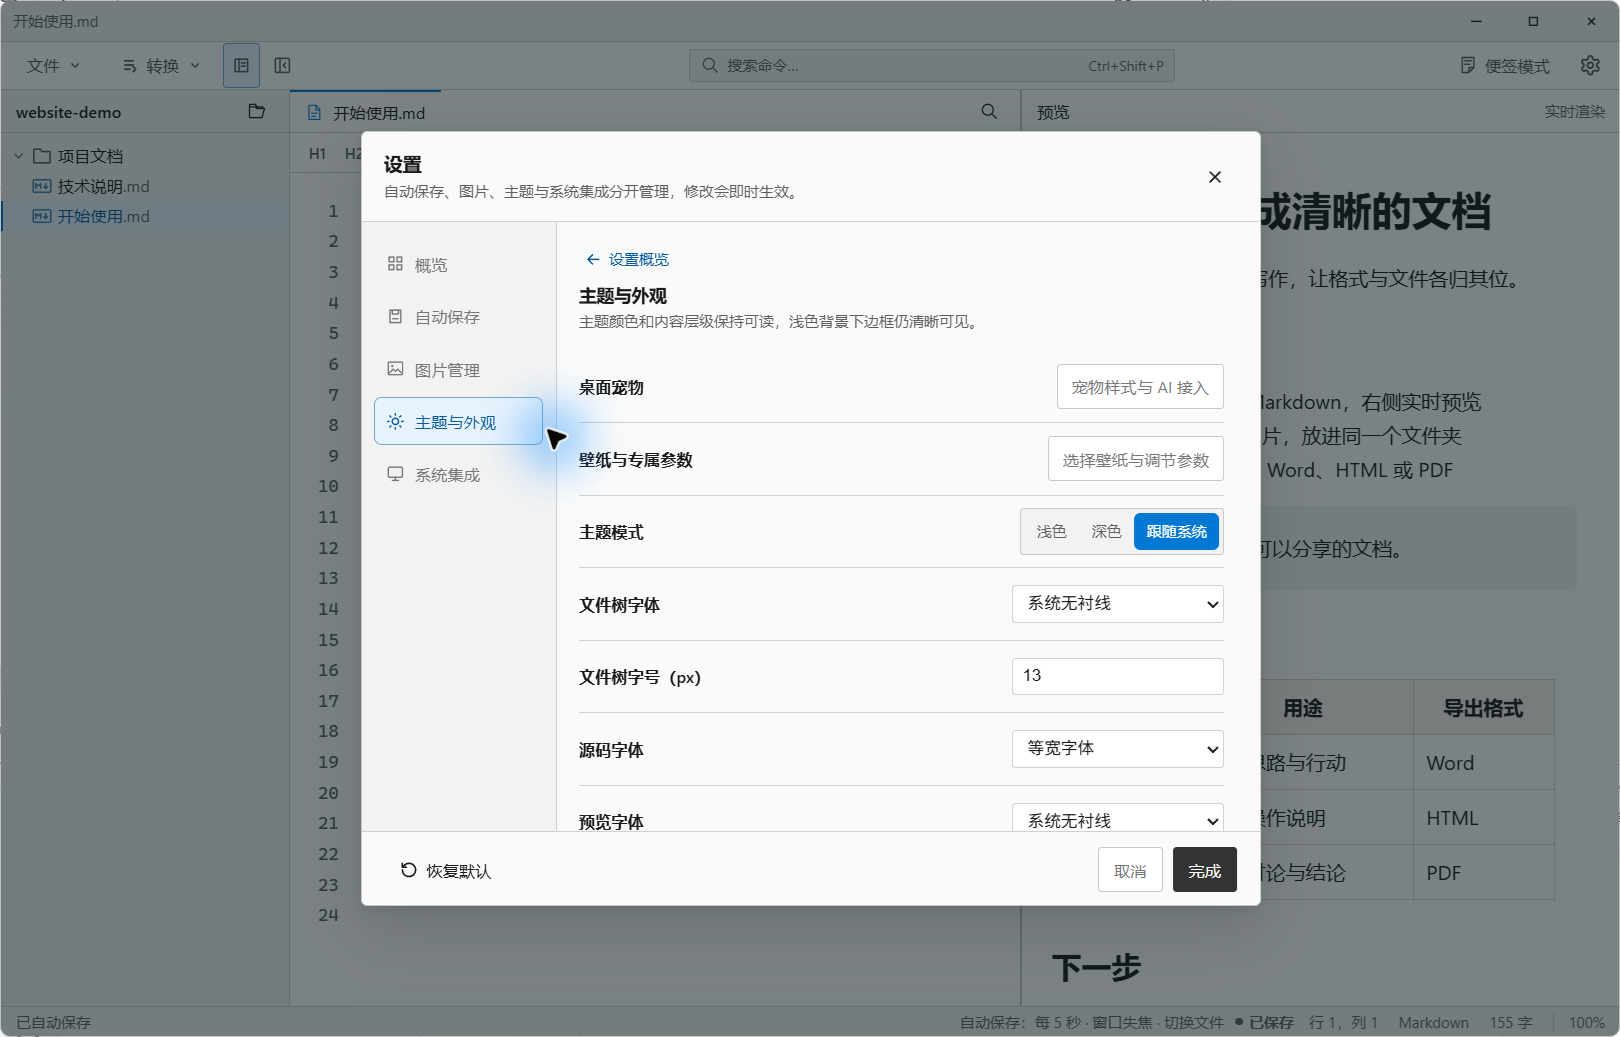
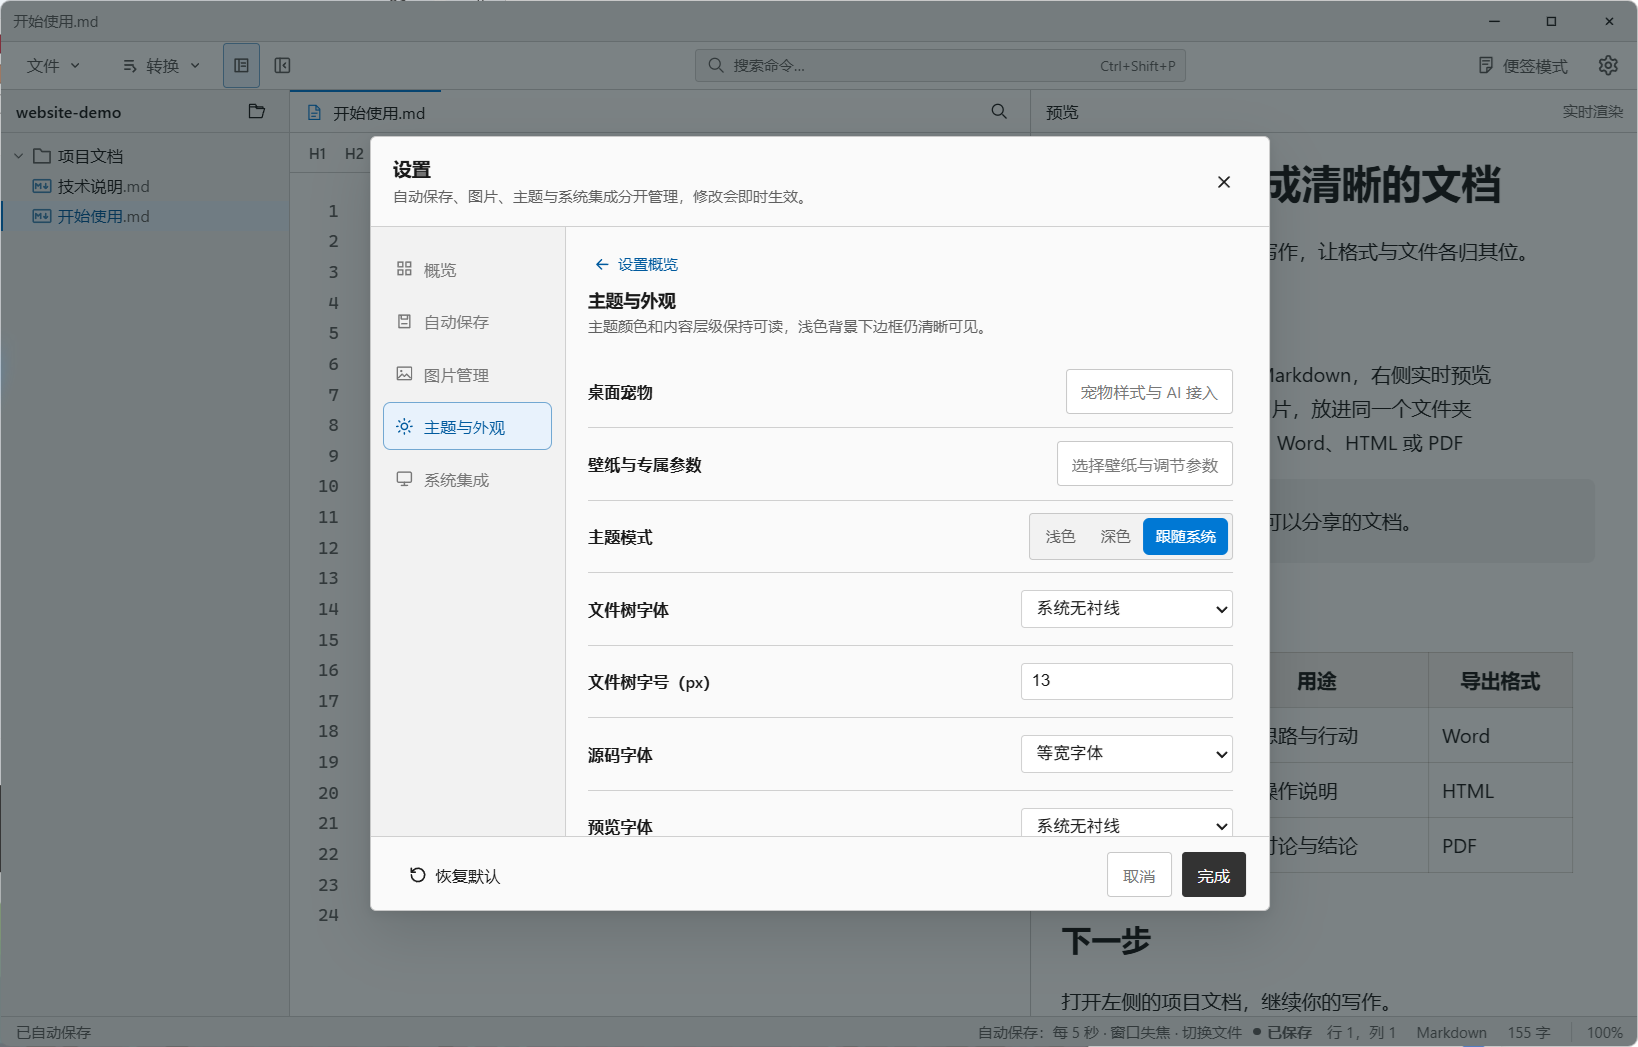
docs: recapture all website screenshots without mouse cursor

diff --git a/web/index.html b/web/index.html
@@ -48,8 +48,8 @@
 
       <figure class="hero-figure">
         <div class="shot-frame">
-          <button class="shot-trigger" type="button" data-shot="assets/img/current-editor-hd.png" data-caption="MarkFlow 0.4.5 · 源码、实时预览与本地文件树" data-alt="MarkFlow 0.4.5 的 Windows 编辑器界面，左侧为文件树，中间为 Markdown 源码，右侧为实时预览。">
-            <img src="assets/img/current-editor-hd.png" width="1620" height="1037" alt="MarkFlow 0.4.5 的 Windows 编辑器界面，左侧为文件树，中间为 Markdown 源码，右侧为实时预览。" decoding="async" fetchpriority="high">
+          <button class="shot-trigger" type="button" data-shot="assets/img/current-editor-hd.png?v=20261104-clean" data-caption="MarkFlow 0.4.5 · 源码、实时预览与本地文件树" data-alt="MarkFlow 0.4.5 的 Windows 编辑器界面，左侧为文件树，中间为 Markdown 源码，右侧为实时预览。">
+            <img src="assets/img/current-editor-hd.png?v=20261104-clean" width="1638" height="1047" alt="MarkFlow 0.4.5 的 Windows 编辑器界面，左侧为文件树，中间为 Markdown 源码，右侧为实时预览。" decoding="async" fetchpriority="high">
           </button>
         </div>
         <figcaption class="figure-caption">
@@ -114,8 +114,8 @@
           </div>
           <figure class="shot">
             <div class="shot-frame">
-              <button class="shot-trigger" type="button" data-shot="assets/img/current-appearance-hd.png" data-caption="主题与外观 · 壁纸、字体与界面参数" data-alt="MarkFlow 0.4.5 的主题与外观设置界面，包含壁纸入口、字体和颜色选项。">
-                <img src="assets/img/current-appearance-hd.png" width="1620" height="1037" alt="MarkFlow 0.4.5 的主题与外观设置界面，包含壁纸入口、字体和颜色选项。" loading="lazy" decoding="async">
+              <button class="shot-trigger" type="button" data-shot="assets/img/current-appearance-hd.png?v=20261104-clean" data-caption="主题与外观 · 壁纸、字体与界面参数" data-alt="MarkFlow 0.4.5 的主题与外观设置界面，包含壁纸入口、字体和颜色选项。">
+                <img src="assets/img/current-appearance-hd.png?v=20261104-clean" width="1638" height="1047" alt="MarkFlow 0.4.5 的主题与外观设置界面，包含壁纸入口、字体和颜色选项。" loading="lazy" decoding="async">
               </button>
             </div>
             <figcaption class="figure-caption">
@@ -134,8 +134,8 @@
           </div>
           <figure class="shot">
             <div class="shot-frame">
-              <button class="shot-trigger" type="button" data-shot="assets/img/current-convert-hd.png" data-caption="格式转换 · 导入与导出菜单" data-alt="MarkFlow 0.4.5 的格式转换菜单，列出可导入和导出的文档格式。">
-                <img src="assets/img/current-convert-hd.png" width="1620" height="1037" alt="MarkFlow 0.4.5 的格式转换菜单，列出可导入和导出的文档格式。" loading="lazy" decoding="async">
+              <button class="shot-trigger" type="button" data-shot="assets/img/current-convert-hd.png?v=20261104-clean" data-caption="格式转换 · 导入与导出菜单" data-alt="MarkFlow 0.4.5 的格式转换菜单，列出可导入和导出的文档格式。">
+                <img src="assets/img/current-convert-hd.png?v=20261104-clean" width="1638" height="1047" alt="MarkFlow 0.4.5 的格式转换菜单，列出可导入和导出的文档格式。" loading="lazy" decoding="async">
               </button>
             </div>
             <figcaption class="figure-caption">
@@ -156,8 +156,8 @@
           <div class="pet-media">
             <figure class="shot">
               <div class="shot-frame">
-                <button class="shot-trigger" type="button" data-shot="assets/img/current-pet-hd.png" data-caption="宠物设置 · 角色、尺寸、透明度与气泡" data-alt="MarkFlow 0.4.5 的宠物设置界面，显示蓝发角色以及尺寸、透明度、镜像和气泡等参数。">
-                  <img src="assets/img/current-pet-hd.png" width="952" height="989" alt="MarkFlow 0.4.5 的宠物设置界面，显示蓝发角色以及尺寸、透明度、镜像和气泡等参数。" loading="lazy" decoding="async">
+                <button class="shot-trigger" type="button" data-shot="assets/img/current-pet-hd.png?v=20261104-clean" data-caption="宠物设置 · 角色、尺寸、透明度与气泡" data-alt="MarkFlow 0.4.5 的宠物设置界面，显示蓝发角色以及尺寸、透明度、镜像和气泡等参数。">
+                  <img src="assets/img/current-pet-hd.png?v=20261104-clean" width="952" height="989" alt="MarkFlow 0.4.5 的宠物设置界面，显示蓝发角色以及尺寸、透明度、镜像和气泡等参数。" loading="lazy" decoding="async">
                 </button>
               </div>
               <figcaption class="figure-caption">
@@ -167,8 +167,8 @@
             </figure>
             <figure class="shot">
               <div class="shot-frame">
-                <button class="shot-trigger" type="button" data-shot="assets/img/current-notes-hd.png" data-caption="桌面便签 · 待办与提前提醒" data-alt="MarkFlow 桌面便签的待办设置，可选择提前 15 分钟、30 分钟或自定义时间提醒。">
-                  <img src="assets/img/current-notes-hd.png" width="527" height="777" alt="MarkFlow 桌面便签的待办设置，可选择提前 15 分钟、30 分钟或自定义时间提醒。" loading="lazy" decoding="async">
+                <button class="shot-trigger" type="button" data-shot="assets/img/current-notes-hd.png?v=20261104-clean" data-caption="桌面便签 · 待办与提前提醒" data-alt="MarkFlow 桌面便签的待办设置，可选择提前 15 分钟、30 分钟或自定义时间提醒。">
+                  <img src="assets/img/current-notes-hd.png?v=20261104-clean" width="527" height="777" alt="MarkFlow 桌面便签的待办设置，可选择提前 15 分钟、30 分钟或自定义时间提醒。" loading="lazy" decoding="async">
                 </button>
               </div>
               <figcaption class="figure-caption"><span>待办提醒 · 实拍</span><span class="zoom-hint">单击放大</span></figcaption>

diff --git a/web/mcp/index.html b/web/mcp/index.html
@@ -122,8 +122,8 @@
 
       <figure class="settings-figure">
         <div class="shot-frame">
-          <button class="shot-trigger" type="button" data-shot="../assets/img/current-pet-mcp-hd.png" data-caption="宠物样式与 AI 接入 · MCP 设置区域" data-alt="MarkFlow 0.4.5 的宠物设置窗口，展示 MCP 开关、复制连接配置和复制生成指令入口。">
-            <img src="../assets/img/current-pet-mcp-hd.png" width="952" height="989" alt="MarkFlow 0.4.5 的宠物设置窗口，展示 MCP 开关、复制连接配置和复制生成指令入口。" loading="lazy" decoding="async">
+          <button class="shot-trigger" type="button" data-shot="../assets/img/current-pet-mcp-hd.png?v=20261104-clean" data-caption="宠物样式与 AI 接入 · MCP 设置区域" data-alt="MarkFlow 0.4.5 的宠物设置窗口，展示 MCP 开关、复制连接配置和复制生成指令入口。">
+            <img src="../assets/img/current-pet-mcp-hd.png?v=20261104-clean" width="952" height="989" alt="MarkFlow 0.4.5 的宠物设置窗口，展示 MCP 开关、复制连接配置和复制生成指令入口。" loading="lazy" decoding="async">
           </button>
         </div>
         <figcaption class="figure-caption">

diff --git a/web/README.md b/web/README.md
@@ -18,7 +18,7 @@ python -m http.server 8124 --bind 127.0.0.1 --directory web
 - `mcp/index.html`：角色描述、完整 AI 指令复制、接入步骤、11 个实际工具和折叠的高级规范。
 - `mcp/ai.txt`：供外部 AI 读取的操作指南。`pet.schema.json` 与 `protocol.json` 分别与 `public/pet-api/` 的对应运行时文件一致。
 - `assets/site.css`、`assets/site.js`：共享样式、指令复制和截图放大。
-- `assets/img/current-*-hd.png`：当前 MarkFlow 0.4.5 Windows 原生窗口实拍，包括编辑器、转换菜单、外观设置、宠物设置、MCP 区域和待办提醒表单。使用系统窗口截图，以 PNG 保存原始像素，避免工具预览图的缩小和 JPEG 压缩；没有放大旧图或重绘界面。编辑器截图为 1620 × 1037，宠物窗口为 952 × 989，便签为 527 × 777。状态栏显示保存状态，不显示本机完整路径。示例文档位于 `docs/website-demo/`，未使用个人文档。提醒表单仅展示设置，截图后取消，未创建定时任务。
+- `assets/img/current-*-hd.png`：当前 MarkFlow 0.4.5 Windows 原生窗口实拍，包括编辑器、转换菜单、外观设置、宠物设置、MCP 区域和待办提醒表单。使用系统窗口截图，以 PNG 保存原始像素，避免工具预览图的缩小和 JPEG 压缩；没有放大旧图或重绘界面。编辑器截图为 1638 × 1047，宠物窗口为 952 × 989，便签为 527 × 777。截图前将鼠标移到窗口外，待光圈与拖尾消失后截取；6 张截图均不含鼠标指针、光圈和本机完整路径，状态栏显示保存状态。页面图片与放大入口使用 `?v=20261104-clean` 更新缓存。示例文档位于 `docs/website-demo/`，未使用个人文档。提醒表单仅展示设置，截图后取消，未创建定时任务。
 - 内置蓝发角色来自 dsh-pet，保留 `pet-LICENSE.txt`、`pet-NOTICE.txt` 与页面署名。
 
 截图用于展示当前界面，不代表在本次官网工作中重新验证了全部文档转换或 Mac 原生功能。Windows 下载改为 0.4.5 CI 签名的正式安装包，macOS 指向 v0.4.5 预览构建；页面明确标注平台验证范围。
